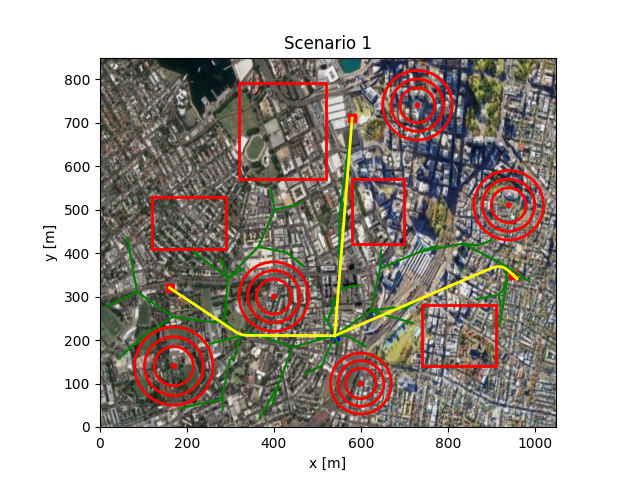
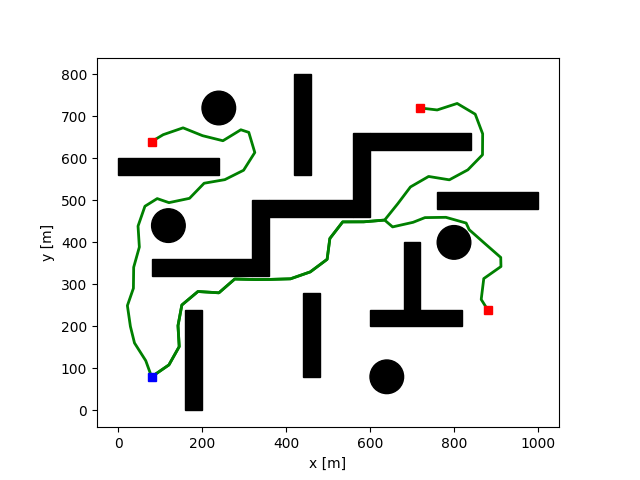
Update map and correct parameters

diff --git a/main.py b/main.py
@@ -41,11 +41,13 @@ class RRT:
                     check += 1
             if check == len(self.s_goal):
                 break
-        for i in range(len(self.paths)):
-            path = self.paths[i]
-            # path = self.remove_residual_node(path, self.start, self.goals[i])
-            # path = self.curve_path(path, self.start, self.goals[i])
-            self.paths[i] = path
+        print("[INFO] RRT planning done!.")
+        # for i in range(len(self.paths)):
+        #     path = self.paths[i]
+        #     path = self.remove_residual_node(path, START, GOALS[i])
+        #     path = self.curve_path(path, self.start, self.goals[i])
+        #     self.paths[i] = path
+        # print("[INFO] Smooth paths done!.")
         return self.paths
 
     def new_state(self, node_start, node_goal):
@@ -113,6 +115,7 @@ class RRT:
     def remove_residual_node(self, path, start, goal):
         new_path = [start]
 
+        # Need to check again!!!
         while new_path[-1] != goal:
             for i in range(len(path)):
                 if not is_collision(Node(path[i]), Node(new_path[-1]), OBS_RECTANGLE, OBS_CIRCLE, ROBOT_RADIUS) \
@@ -157,6 +160,7 @@ if __name__ == "__main__":
     st = time.time()
     paths = rrt.planning()
     # vertex = rrt.vertex
+    print(paths)
     print("RRT done: {:.2f}s".format(time.time()-st))
     with open('paths.txt', 'wb') as f:
         pickle.dump(paths, f)

diff --git a/CreateModel1.py b/CreateModel1.py
@@ -8,28 +8,35 @@ YDIM = 800
 X_RANGE = [0, XDIM]
 Y_RANGE = [0, YDIM]
 
-START = [540, 210]
-GOALS = [[160, 320],
-         [580, 710],
-         [950, 350]]
+START = [80, 80]
+GOALS = [[880, 240],
+         [ 80, 640],
+         [720, 720]]
 
 # Obstacle
-OBS_CIRCLE = [[730, 740, 80],
-              [400, 300, 80],
-              [170, 140, 90],
-              [600, 100, 70],
-              [940, 510, 80]]
-OBS_RECTANGLE = [[740, 140, 170, 140],
-                 [320, 570, 200, 220],
-                 [580,420,120,150],
-                 [120,410,170,120]]
+OBS_CIRCLE = [[640,  80, 40],
+              [800, 400, 40],
+              [120, 440, 40],
+              [240, 720, 40]]
+OBS_RECTANGLE = [[160,   0,  40, 240],
+                 [440,  80,  40, 200],
+                 [600, 200, 220,  40],
+                 [680, 240,  40, 160],
+                 [ 80, 320, 240,  40],
+                 [320, 320,  40, 180],
+                 [360, 460, 200,  40],
+                 [560, 460,  40, 200],
+                 [760, 480, 240,  40],
+                 [  0, 560, 240,  40],
+                 [420, 560,  40, 240],
+                 [600, 620, 240,  40]]
 
 # Robot constraints
 ROBOT_RADIUS = 5
 MAX_ANGLE = np.deg2rad(60.0)
 
 # RRT configs
-STEP_LENGTH = 100
+STEP_LENGTH = 50
 GOAL_SAMPLE_RATE = 0.01
 SEARCH_RADIUS = 80
-MAX_ITER = 1000
+MAX_ITER = 5000

diff --git a/plot.py b/plot.py
@@ -9,6 +9,7 @@ from CreateModel1 import *
 
 with open("paths.txt", "rb") as f:
     paths = pickle.load(f)
+# print(paths)
 
 fig = plt.figure()
 ax = fig.add_subplot(111)
